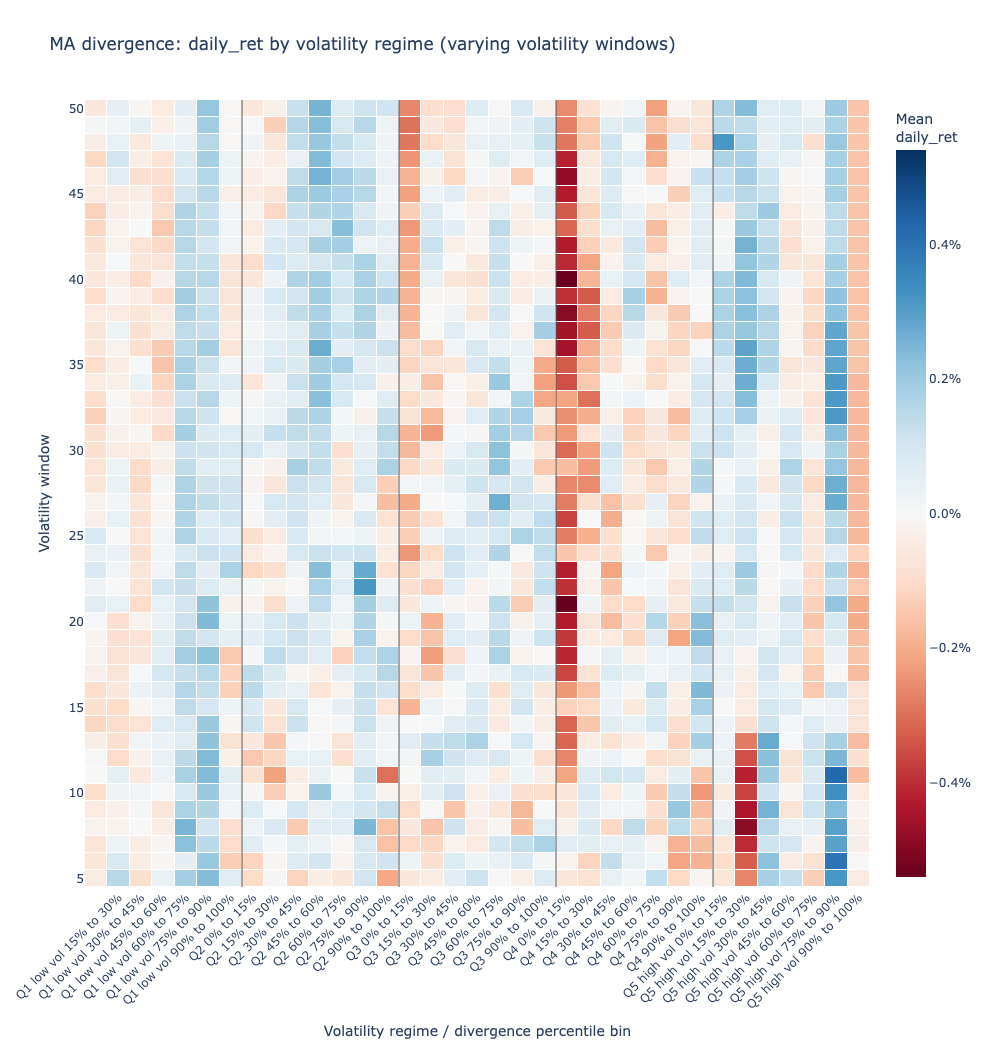
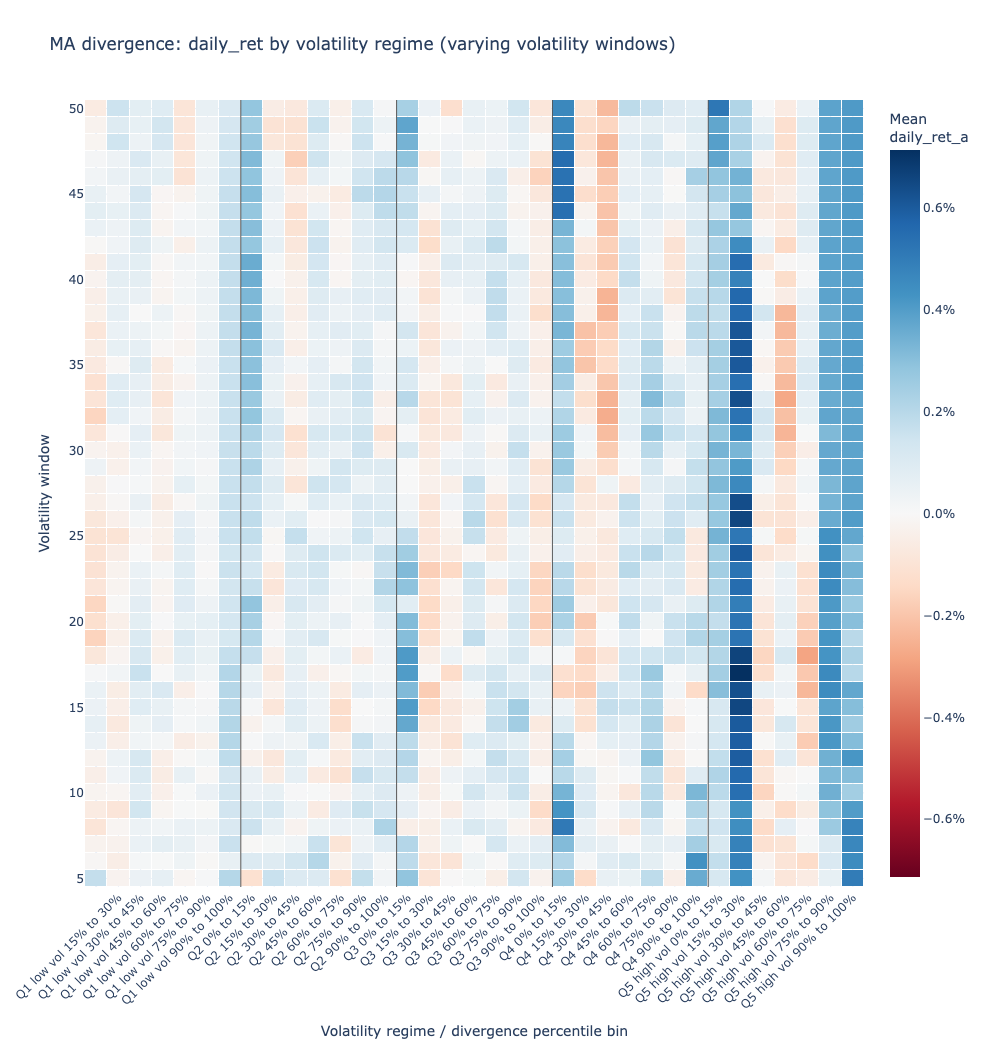
update

diff --git a/projects/workStrategy/TX/analyzer.py b/projects/workStrategy/TX/analyzer.py
@@ -1395,40 +1395,66 @@ class TXAnalyzer:
         volatility_window: int = 20,
         volatility_regime: int = 5,
         volatility_bins: int = 5,
-        divergence_percentile: float = 15,
+        divergence_percentile: float | tuple[float, float] = 15,
         return_column: str = 'daily_ret',
     ) -> pd.DataFrame:
-        """Plot when a selected divergence/volatility condition occurs over time.
+        """Plot when a selected divergence condition occurs over time.
 
         The divergence percentile is ranked within each volatility regime, the
-        same convention used by ``compare_ma_divergence_by_volatility``. The
-        returned frame contains only dates satisfying the selected condition.
+        same convention used by ``compare_ma_divergence_by_volatility``. Set
+        ``volatility_bins=1`` to skip the volatility condition and rank across
+        all valid dates. Pass ``divergence_percentile=(80, 100)`` to select a
+        closed percentile range instead of the default lower-tail cutoff. The
+        returned frame contains only signal dates.
         """
         from plotly.subplots import make_subplots
 
-        if ma_window < 2 or volatility_window < 2:
-            raise ValueError('ma_window and volatility_window must be at least 2')
+        if ma_window < 2:
+            raise ValueError('ma_window must be at least 2')
         if return_column not in self.df:
             raise KeyError(f"missing return column: {return_column}")
-        if volatility_bins < 2:
-            raise ValueError('volatility_bins must be at least 2')
+        if volatility_bins < 1:
+            raise ValueError('volatility_bins must be at least 1')
+        if volatility_bins > 1 and volatility_window < 2:
+            raise ValueError('volatility_window must be at least 2 when using volatility bins')
         if not 1 <= volatility_regime <= volatility_bins:
             raise ValueError('volatility_regime must be between 1 and volatility_bins')
-        if not 0 < divergence_percentile <= 100:
-            raise ValueError('divergence_percentile must be greater than 0 and at most 100')
+        if isinstance(divergence_percentile, tuple):
+            if len(divergence_percentile) != 2:
+                raise ValueError('divergence_percentile range must contain exactly two values')
+            percentile_lower, percentile_upper = map(float, divergence_percentile)
+            if not 0 <= percentile_lower < percentile_upper <= 100:
+                raise ValueError('divergence_percentile range must satisfy 0 <= lower < upper <= 100')
+            percentile_label = f'{percentile_lower:g}% to {percentile_upper:g}%'
+        else:
+            percentile_lower = 0.0
+            percentile_upper = float(divergence_percentile)
+            if not 0 < percentile_upper <= 100:
+                raise ValueError('divergence_percentile must be greater than 0 and at most 100')
+            percentile_label = f'<= {percentile_upper:g}%'
 
         returns = self.df[return_column]
         divergence = ((self.df['Close'] / self.df['Close'].rolling(ma_window).mean()) - 1).shift(1)
-        realized_volatility = returns.rolling(volatility_window).std().shift(1)
-        frame = pd.DataFrame({'divergence': divergence, 'return': returns, 'volatility': realized_volatility}).dropna()
-        frame['volatility_group'] = pd.qcut(frame['volatility'], q=volatility_bins, labels=False, duplicates='drop')
-        if frame['volatility_group'].nunique() != volatility_bins:
-            raise ValueError(f'not enough volatility variation to create {volatility_bins} bins')
+        if volatility_bins == 1:
+            frame = pd.DataFrame({'divergence': divergence, 'return': returns}).dropna()
+            frame['volatility_group'] = 0
+            regime_label = 'without volatility regime'
+            customdata = np.column_stack((frame['divergence'],))
+            hovertemplate = 'Date: %{x|%Y-%m-%d}<br>daily_ret: %{y:.3%}<br>Raw divergence: %{customdata[0]:.4%}<br>Divergence percentile: %{text:.1f}%<extra></extra>'
+        else:
+            realized_volatility = returns.rolling(volatility_window).std().shift(1)
+            frame = pd.DataFrame({'divergence': divergence, 'return': returns, 'volatility': realized_volatility}).dropna()
+            frame['volatility_group'] = pd.qcut(frame['volatility'], q=volatility_bins, labels=False, duplicates='drop')
+            if frame['volatility_group'].nunique() != volatility_bins:
+                raise ValueError(f'not enough volatility variation to create {volatility_bins} bins')
+            regime_label = f'within Q{volatility_regime} volatility ({volatility_window}D)'
+            customdata = np.column_stack((frame['divergence'], frame['volatility']))
+            hovertemplate = 'Date: %{x|%Y-%m-%d}<br>daily_ret: %{y:.3%}<br>Raw divergence: %{customdata[0]:.4%}<br>Divergence percentile in regime: %{text:.1f}%<br>Prior volatility: %{customdata[1]:.3%}<extra></extra>'
 
         frame['divergence_percentile'] = frame.groupby('volatility_group')['divergence'].rank(method='first', pct=True) * 100
         events = frame.loc[
             frame['volatility_group'].eq(volatility_regime - 1)
-            & frame['divergence_percentile'].le(divergence_percentile)
+            & frame['divergence_percentile'].between(percentile_lower, percentile_upper, inclusive='both')
         ].copy()
         events.index.name = 'date'
 
@@ -1463,8 +1489,9 @@ class TXAnalyzer:
                     colorbar=dict(title='daily_ret', tickformat='.1%'),
                     line=dict(color='#222222', width=0.4),
                 ),
-                customdata=np.column_stack((events['divergence'], events['divergence_percentile'], events['volatility'])),
-                hovertemplate='Date: %{x|%Y-%m-%d}<br>daily_ret: %{y:.3%}<br>Raw divergence: %{customdata[0]:.4%}<br>Divergence percentile in regime: %{customdata[1]:.1f}%<br>Prior volatility: %{customdata[2]:.3%}<extra></extra>',
+                customdata=customdata[frame.index.get_indexer(events.index)],
+                text=events['divergence_percentile'],
+                hovertemplate=hovertemplate,
                 showlegend=False,
             ),
             row=1,
@@ -1487,8 +1514,8 @@ class TXAnalyzer:
         max_gap_text = 'n/a' if pd.isna(max_gap) else f'{max_gap:.0f} days'
         fig.update_layout(
             title=(
-                f'{ma_window}ma divergence <= {divergence_percentile:g}% within Q{volatility_regime} volatility '
-                f'({volatility_window}D): {len(events)} signal days | active months {active_months}/{len(monthly_count)} '
+                f'{ma_window}ma divergence {percentile_label} {regime_label}: '
+                f'{len(events)} signal days | active months {active_months}/{len(monthly_count)} '
                 f'| median gap {gap_text} | max gap {max_gap_text}'
             ),
             template='plotly_white',